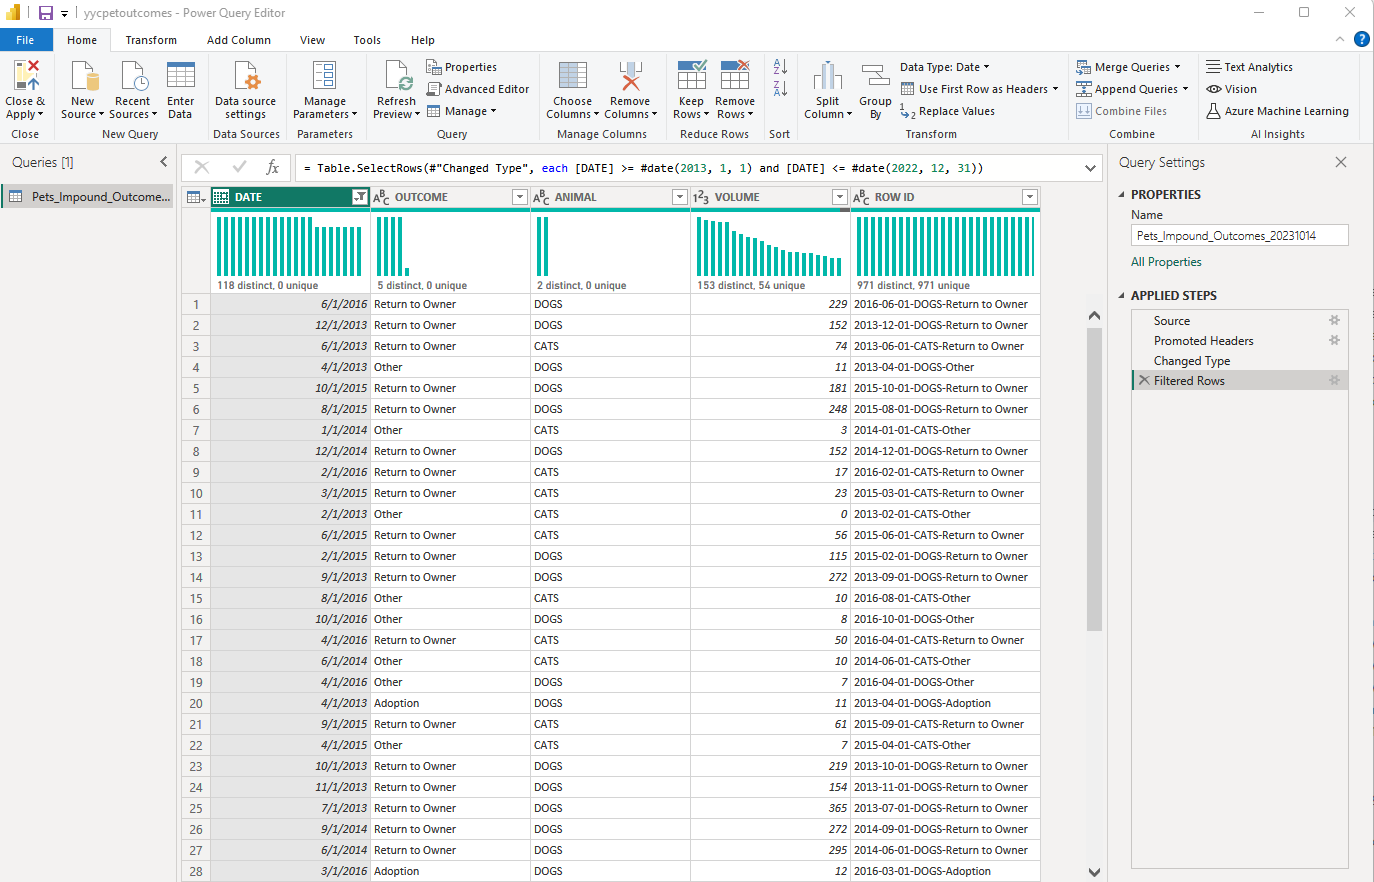
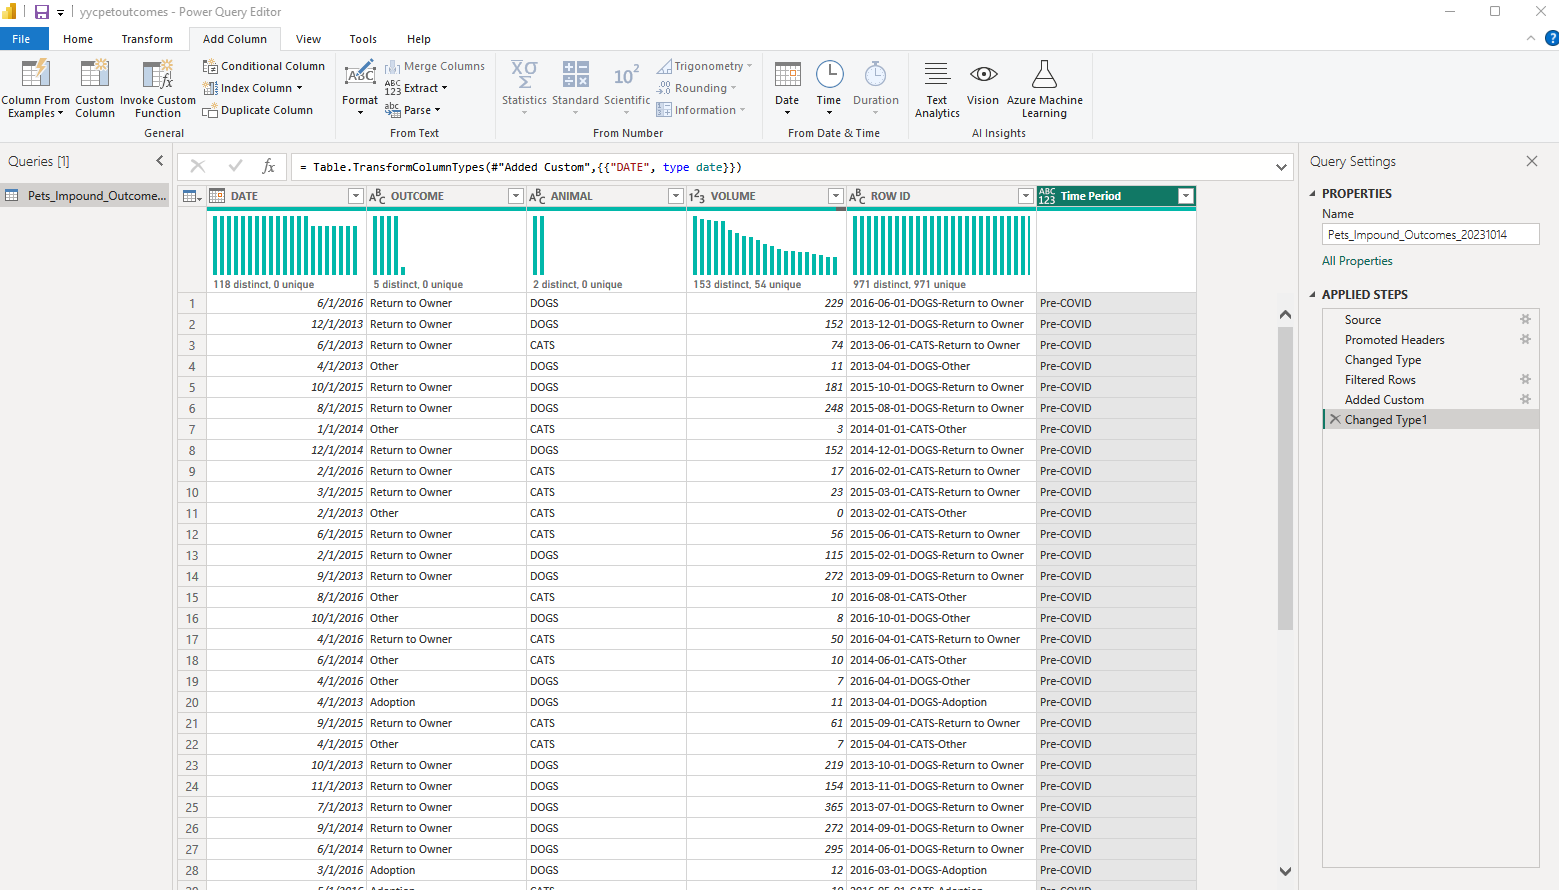
yycpets updates

diff --git a/exampleSite/content/portfolio/yycpetoutcomes.md b/exampleSite/content/portfolio/yycpetoutcomes.md
@@ -12,30 +12,32 @@ ShowBreadCrumbs: false
 
 _This project is ongoing, keep an eye out for the results._  
 
-A colleague and I decided to take a look at data on pet impound outcomes available on [City of Calgary Open Data Platform](https://data.calgary.ca/Services-and-Amenities/Pets-Impound-Outcomes/jmrf-j94e) to identify any trends around pets surrenders. Many people got pets during the pandemic as a result of lockdowns and extensive time being spent indoors. We suspect that a number of these owners began to surrender their pets after lockdowns were lifted and many returned to working onsite.
+A colleague and I decided to take a look at data on pet impound outcomes available on [City of Calgary Open Data Platform](https://data.calgary.ca/Services-and-Amenities/Pets-Impound-Outcomes/jmrf-j94e) to identify trends surrounding pet surrenders. Many people got pets during the pandemic as a result of lockdowns and extensive time being spent indoors. We suspect that a number of these owners began to surrender their pets after lockdowns were lifted and many returned to working onsite.
 
 **ETL**  
-The source data is relatively clean, containing 5 columns, details of each column can be found below:
+The source data is relatively clean, containing 5 columns. Details of each column can be found below:
 - Date: These are grouped by Month. January 2019, February 2019, etc
-- Outcome: Five different outcomes are defined in the data, details are below where the decriptios is not clear:
+- Outcome: Five different outcomes are defined in the data, details are below where the decription is not clear:
   * Return to Owner
   * Adoption
   * Euthanasia
   * Transfer: Animal was sent to another pound or facility
-  * Other: Includes Disposal (when a deceased animal comes to Animal Services Centre, typically hit by a car, and teh body is sent for cremation). DOA (the term used for “dead on arrival” and typically gets used when an animal is taken to a vet clinic deceased, and there is no indication as to why). In Kennel (Still being kenneled at animal service at the time of this data being collected).
+  * Other: Includes Disposal (when a deceased animal comes to Animal Services Centre, typically hit by a car, and the body is sent for cremation). DOA (the term used for “dead on arrival” and is typically used when an animal is taken to a vet clinic deceased, with no indication as to why). In Kennel (Still being kenneled at animal service at the time of the data being collected).
 - Animal: This column contains two unique values, dogs and cats
 - Volume: Number of pets
 - Row ID: Generated unique identifier for each data point
 
 **Analysis**  
-Data is available from 2012 April to 2023 March. To normalise, we will only be considering data in the 10 year periond starting from January 2013 to December 2022 inclusive. There is no data for November and December 2016.
-
+Data is available from 2012 April to 2023 March. To normalise, we are only considering data in the 10 year periond starting from January 2013 to December 2022 inclusive. There is no data for November and December 2016. We defined three distinct periods using a custom column:
+- Pre-Covid: January 2013 to Febuary 2020
+- During Covid: March 2020 to March 2022
+- Post-Covid:  April 2022 to December 2022
 
 **Visualisation**  
 Created using Power BI, the interactive report can be viewed at [this link]().
 
 **Collaborator(s)**  
-I worked with Robin Simcoe on this report. She can be reached at [this link]().
+I worked with Robin Simcoe on this report. She can be reached at [this link](https://www.linkedin.com/in/robin-simcoe-3739b3262?originalSubdomain=ca).
 
 ![This where you put the alt information](/uploads/yycpetoutcomesquery.png "Data import into Power BI")
 
